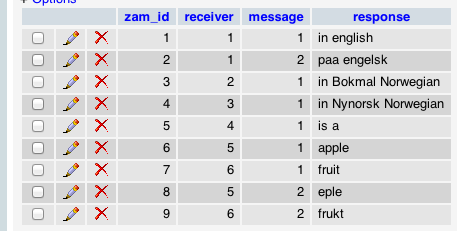
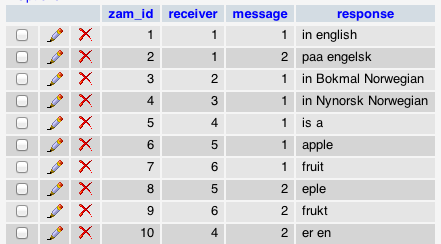
better screenshot, more README

Changed region(s): [[0.0, 0.0, 1.0, 1.0], [0.5011, 0.1515, 0.5306, 0.1818], [0.3537, 0.1515, 0.3832, 0.1818]]

diff --git a/README.md b/README.md
@@ -3,10 +3,23 @@ zim-zam
 
 language-agnostic knowledge-base
 
-
 The zim table. Pure concepts relating to other pure concepts    
 ![zim table](http://github.com/chrisbratlien/zim-zam/raw/master/zim.png)
 
 
 The zam table. Written interpretations of concepts in a given language    
 ![zam table](http://github.com/chrisbratlien/zim-zam/raw/master/zam.png)
+
+
+"apple is a fruit" is encoded as 5-4-6, but this knowledge is not coupled to the English language. The 5-4-6 relationship remains true in whatever language.
+
+It only has the appearance of English when we throw the concept of 1 (in english) at it.
+
+5,,1-4,,1-6,,1 => "apple is a fruit"
+
+5,,2-4,,2-6,,2 => "eple er en frukt"
+
+
+Hopefully this model of encoding knowledge can reduce the burden of translating knowledge to different languages. Let's say an expert on a topic contributes some knowledge, but that expert speaks a different language than a person seeking that knowledge, etc.
+
+That's the idea I'm hoping to explore with this
